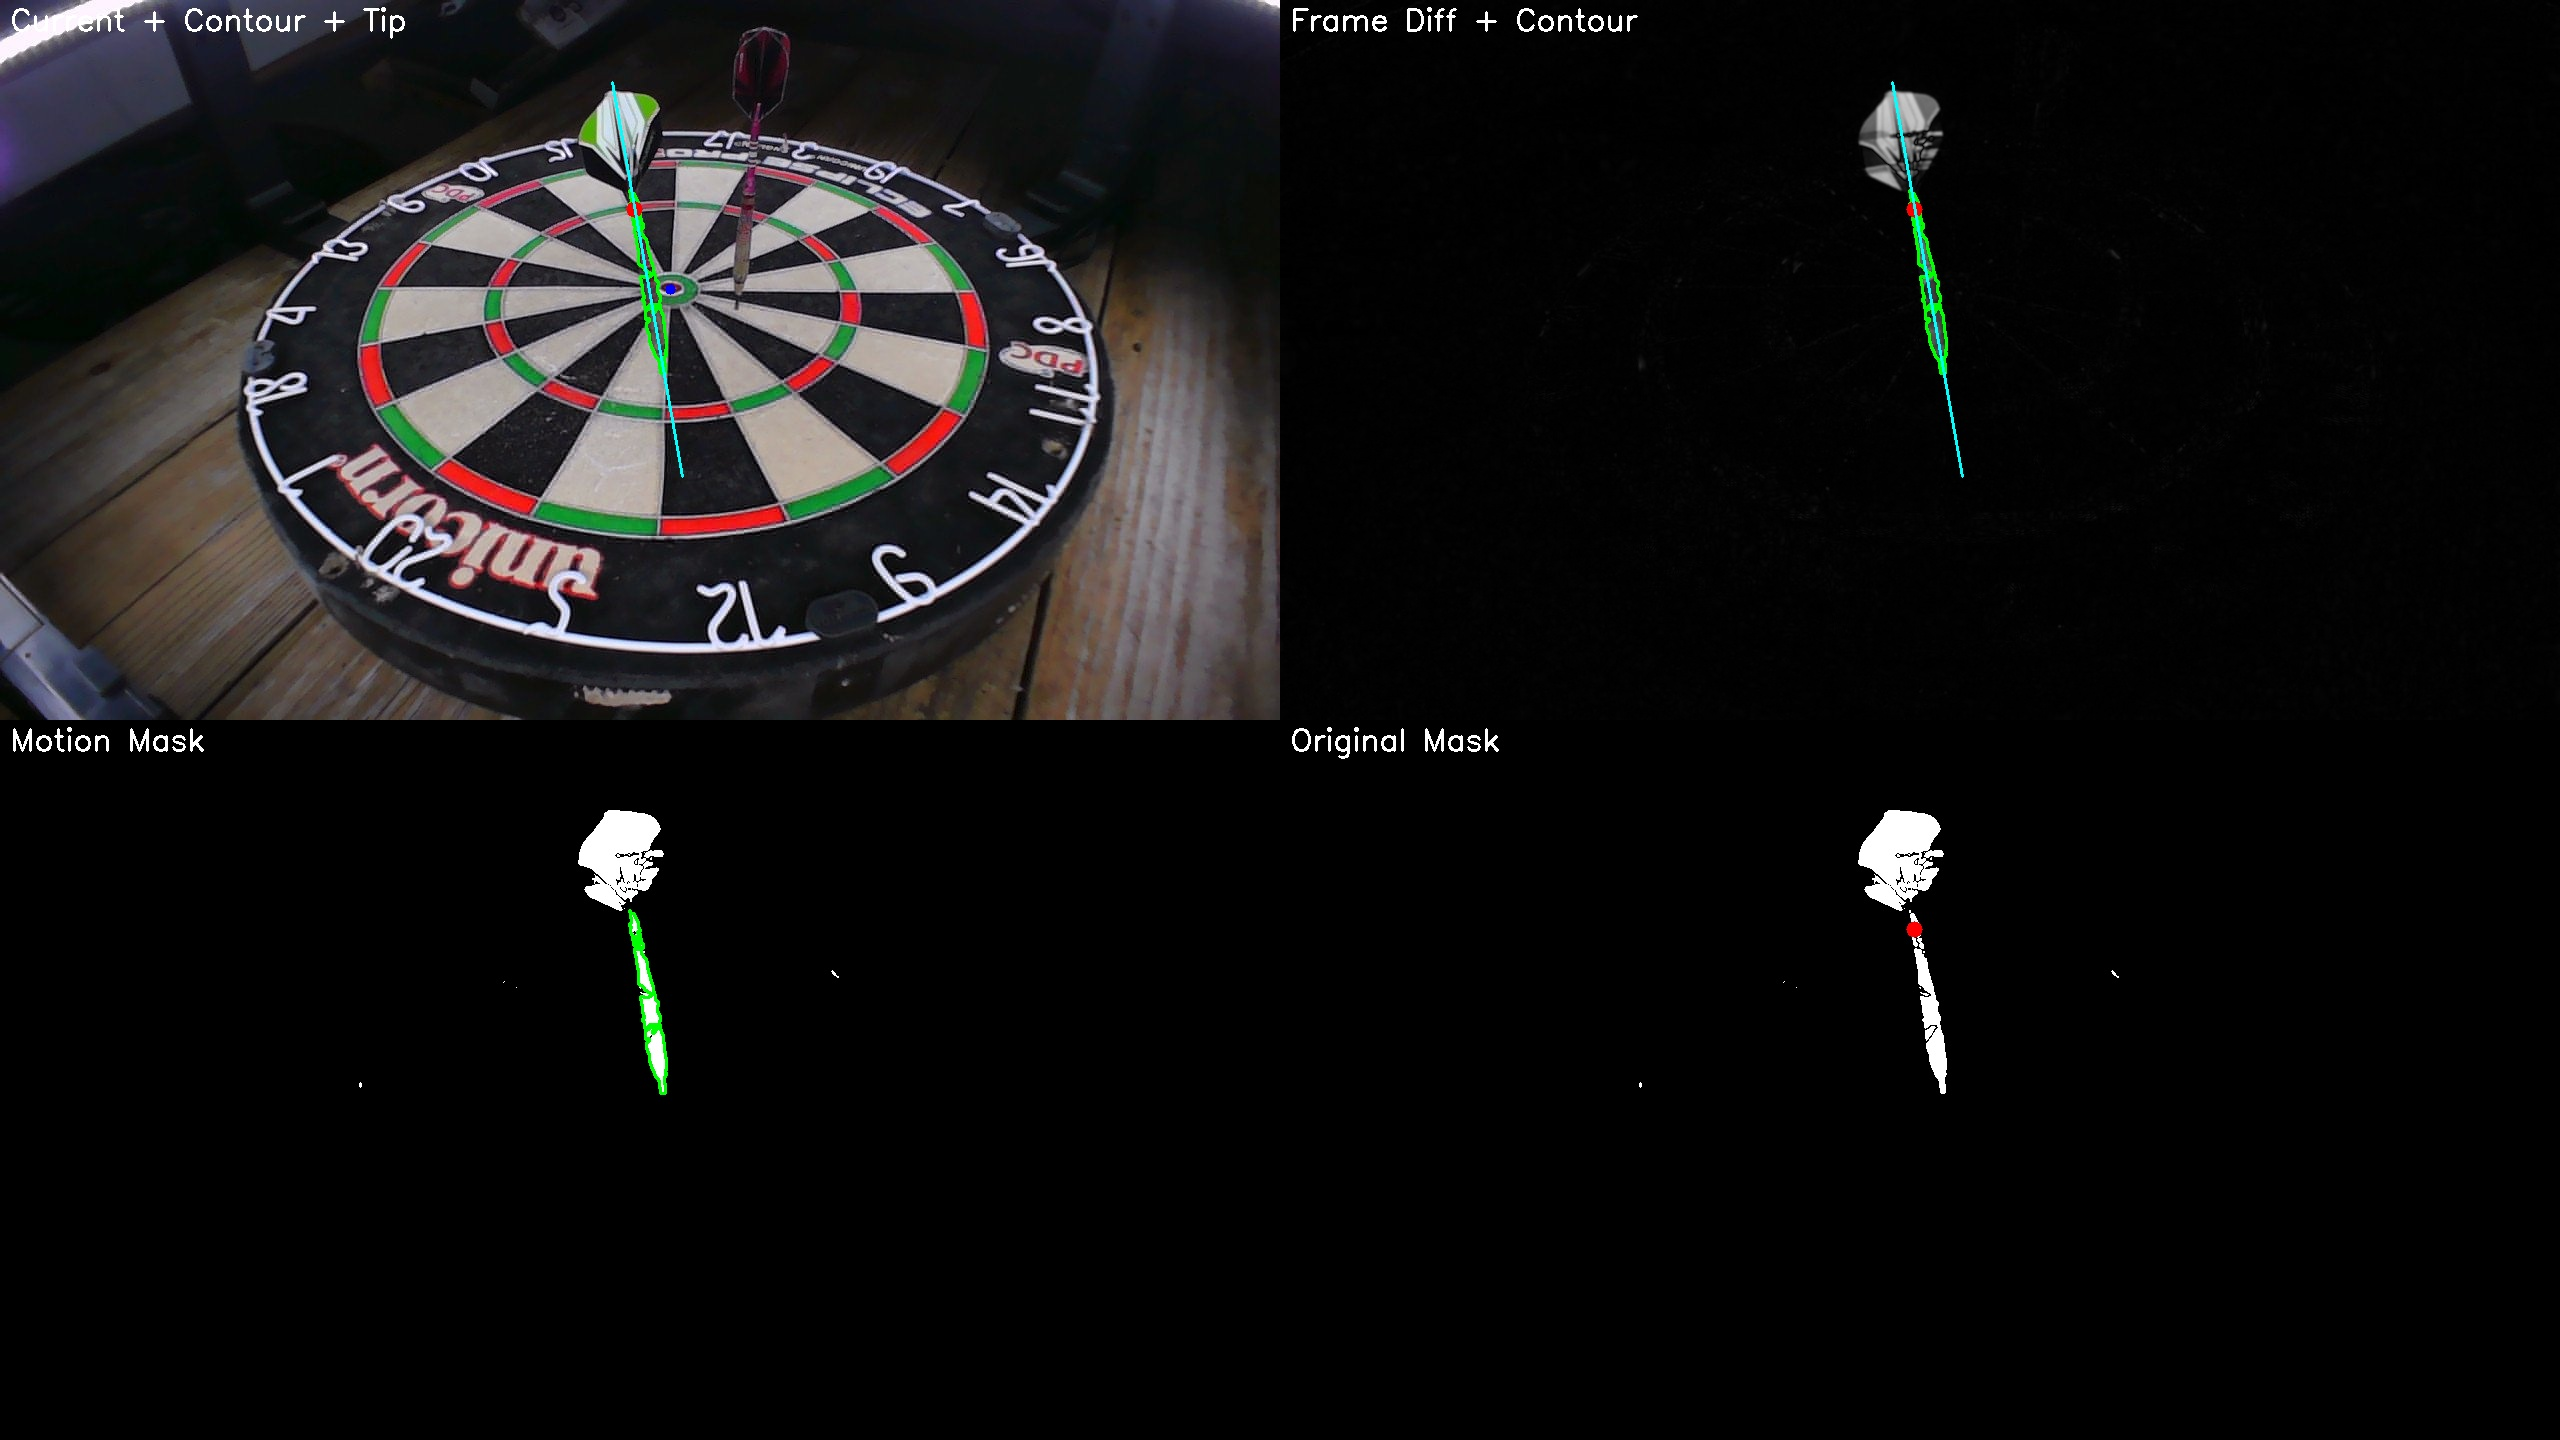
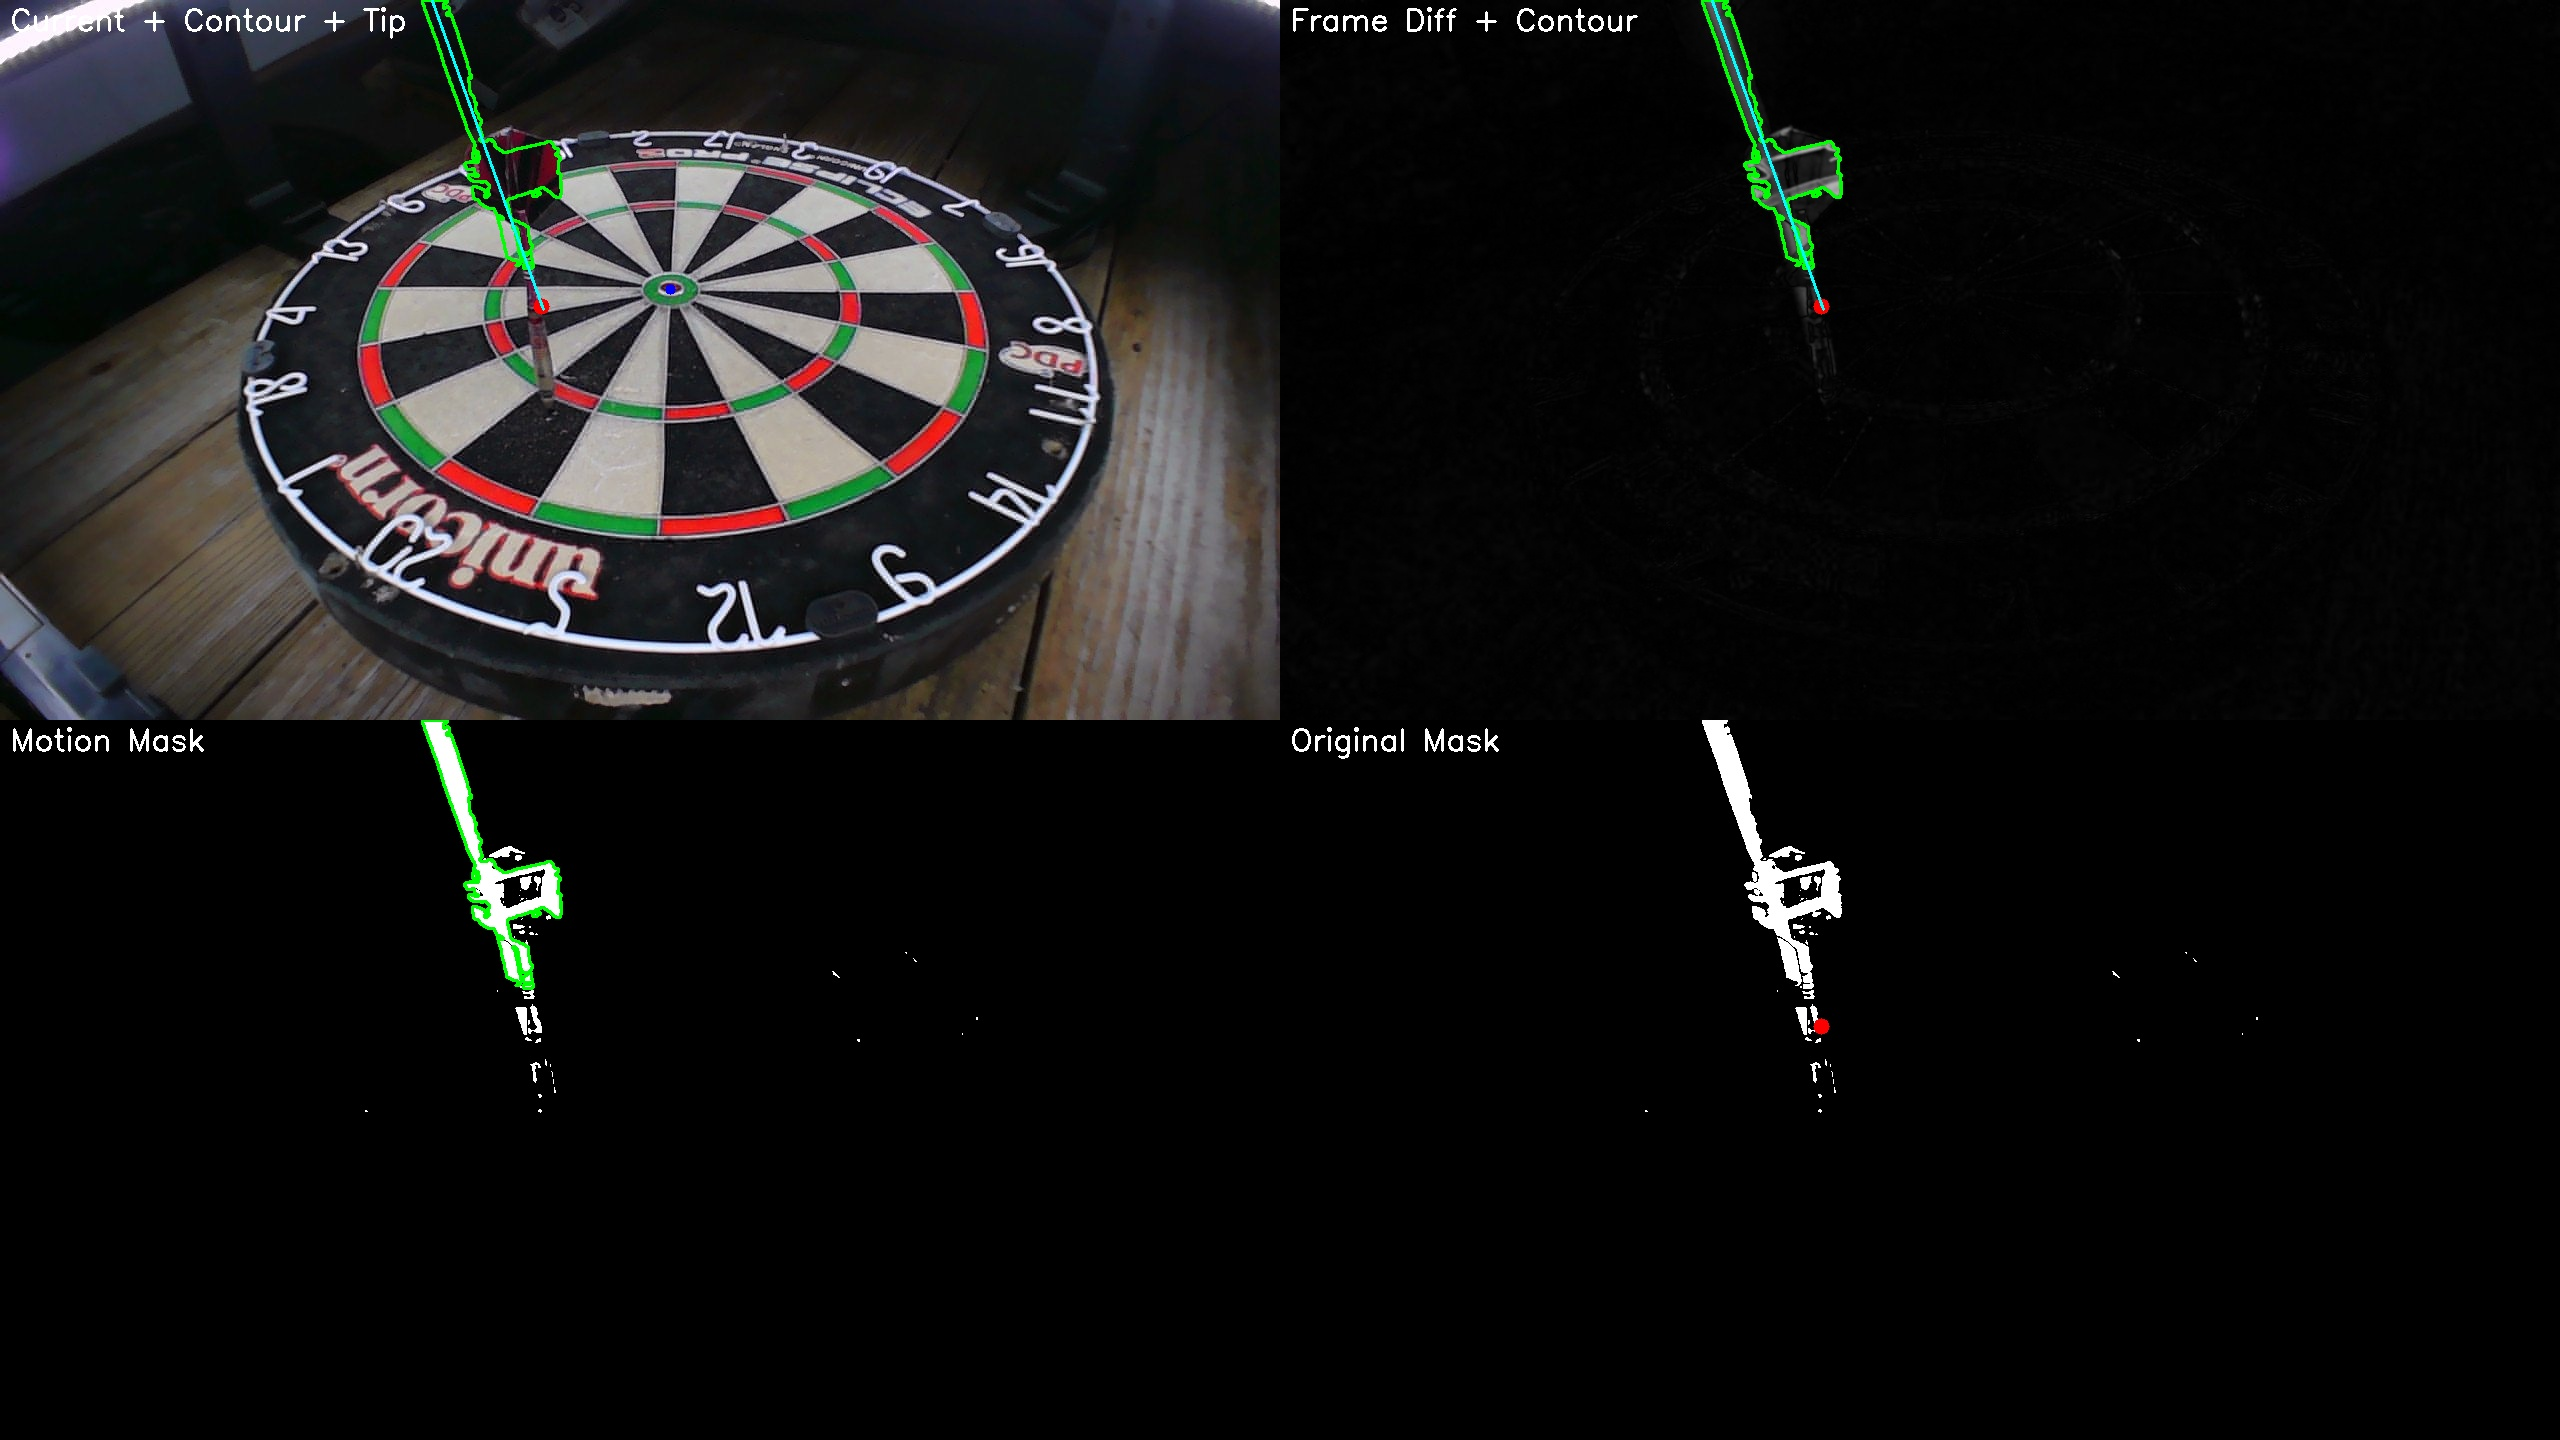
feat: use 20-point polygon for line intersection

diff --git a/app/core/skeleton_detection.py b/app/core/skeleton_detection.py
@@ -401,6 +401,122 @@ def project_line_to_board(line_params, board_center, board_radius, start_point=N
 
 
 
+
+def line_segment_intersection(p1, p2, p3, p4):
+    """
+    Find intersection point of line segment p1-p2 with line segment p3-p4.
+    Returns (x, y, t) where t is parameter along p1-p2, or None if no intersection.
+    """
+    x1, y1 = p1
+    x2, y2 = p2
+    x3, y3 = p3
+    x4, y4 = p4
+    
+    denom = (x1 - x2) * (y3 - y4) - (y1 - y2) * (x3 - x4)
+    if abs(denom) < 1e-10:
+        return None  # Parallel lines
+    
+    t = ((x1 - x3) * (y3 - y4) - (y1 - y3) * (x3 - x4)) / denom
+    u = -((x1 - x2) * (y1 - y3) - (y1 - y2) * (x1 - x3)) / denom
+    
+    # Check if intersection is within both segments
+    if 0 <= u <= 1:  # Must be on the polygon edge
+        # t can be any value (we extend the dart line infinitely)
+        x = x1 + t * (x2 - x1)
+        y = y1 + t * (y2 - y1)
+        return (x, y, t)
+    
+    return None
+
+
+def project_line_to_polygon(line_params, polygon_points, board_center, start_point=None):
+    """
+    Project the dart centerline until it intersects the polygon boundary.
+    
+    Uses the 20-point calibration polygon (double_outers) for accurate
+    board edge detection that accounts for perspective and lens distortion.
+    
+    Args:
+        line_params: (vx, vy, x0, y0) from cv2.fitLine
+        polygon_points: List of 20 (x, y) points defining board boundary
+        board_center: (cx, cy) center of dartboard
+        start_point: Starting point to determine direction toward board
+    
+    Returns:
+        (tip_x, tip_y) where line intersects polygon, or None if no intersection
+    """
+    if line_params is None or not polygon_points or len(polygon_points) < 3:
+        return None
+    
+    vx, vy, x0, y0 = line_params
+    cx, cy = board_center
+    
+    # Normalize direction
+    length = np.sqrt(vx*vx + vy*vy)
+    if length < 0.001:
+        return None
+    vx, vy = vx/length, vy/length
+    
+    # Determine direction: walk TOWARD board center
+    if start_point is not None:
+        sx, sy = start_point
+    else:
+        sx, sy = x0, y0
+    
+    to_center = np.array([cx - sx, cy - sy])
+    dot = to_center[0] * vx + to_center[1] * vy
+    if dot < 0:
+        vx, vy = -vx, -vy  # Flip to point toward center
+    
+    # Create line segment from current position extending far in both directions
+    # We use a large extension to ensure we hit the polygon
+    extend = 1000
+    line_start = (x0 - extend * vx, y0 - extend * vy)
+    line_end = (x0 + extend * vx, y0 + extend * vy)
+    
+    # Find all intersections with polygon edges
+    intersections = []
+    n = len(polygon_points)
+    
+    for i in range(n):
+        p1 = polygon_points[i]
+        p2 = polygon_points[(i + 1) % n]
+        
+        result = line_segment_intersection(line_start, line_end, p1, p2)
+        if result:
+            ix, iy, t = result
+            # Calculate distance from start_point in the walking direction
+            if start_point:
+                dx = ix - sx
+                dy = iy - sy
+                # Project onto direction vector to get signed distance
+                dist = dx * vx + dy * vy
+            else:
+                dist = t
+            intersections.append((ix, iy, dist, i))
+    
+    if not intersections:
+        return None
+    
+    # We want the intersection that's in FRONT of us (positive distance)
+    # and closest to us (smallest positive distance)
+    forward_intersections = [(x, y, d, i) for x, y, d, i in intersections if d > -50]
+    
+    if not forward_intersections:
+        return None
+    
+    # Sort by distance, take closest
+    forward_intersections.sort(key=lambda x: x[2])
+    tip_x, tip_y, _, segment_idx = forward_intersections[0]
+    
+    # Debug log
+    with open(r"C:\Users\clawd\polygon_intersection.txt", "a") as f:
+        f.write(f"line=({x0:.0f},{y0:.0f})->({vx:.2f},{vy:.2f}) hit polygon at ({tip_x:.0f},{tip_y:.0f}) edge={segment_idx}\n")
+    
+    return (float(tip_x), float(tip_y))
+
+
+
 def find_tip_endpoint(endpoints, line_params, board_center=None, board_radius=None, dart_mask=None):
     """
     Find which skeleton endpoint is the tip end.
@@ -629,22 +745,30 @@ def detect_dart_skeleton(
         skeleton_tip = find_tip_endpoint(endpoints, line_params, board_center=center, board_radius=board_radius, dart_mask=dart_mask)
         
         # Project centerline to board surface (even if tip not visible)
-        if board_radius is not None:
+        # Try polygon first (most accurate), then circle, then mask
+        tip = None
+        if hasattr(detect_dart_skeleton, '_polygon_cache') and camera_id in detect_dart_skeleton._polygon_cache:
+            polygon = detect_dart_skeleton._polygon_cache[camera_id]
+            tip = project_line_to_polygon(line_params, polygon, center, start_point=skeleton_tip)
+        
+        if tip is None and board_radius is not None:
             tip = project_line_to_board(line_params, center, board_radius, start_point=skeleton_tip)
-            if tip is None:
-                # Fallback to mask-based projection
-                tip = project_to_tip(skeleton_tip, line_params, original_mask, max_extend=100, board_center=center)
-        else:
+        
+        if tip is None:
             tip = project_to_tip(skeleton_tip, line_params, original_mask, max_extend=100, board_center=center)
         result["tip"] = tip
         result["confidence"] = 0.8
         
     elif len(endpoints) == 1:
-        if board_radius is not None and line_params is not None:
+        tip = None
+        if hasattr(detect_dart_skeleton, '_polygon_cache') and camera_id in detect_dart_skeleton._polygon_cache:
+            polygon = detect_dart_skeleton._polygon_cache[camera_id]
+            tip = project_line_to_polygon(line_params, polygon, center, start_point=endpoints[0])
+        
+        if tip is None and board_radius is not None and line_params is not None:
             tip = project_line_to_board(line_params, center, board_radius, start_point=endpoints[0])
-            if tip is None:
-                tip = project_to_tip(endpoints[0], line_params, original_mask, max_extend=100, board_center=center)
-        else:
+        
+        if tip is None:
             tip = project_to_tip(endpoints[0], line_params, original_mask, max_extend=100, board_center=center)
         result["tip"] = tip
         result["confidence"] = 0.6

diff --git a/app/api/routes.py b/app/api/routes.py
@@ -1637,6 +1637,13 @@ async def detect_tips(
                         b = outer_ellipse[3] if len(outer_ellipse) > 3 else 200
                         board_radius = (a + b) / 2
                     
+                    # Cache polygon calibration for line-polygon intersection
+                    polygon = calibration_data.get('polygon', {}).get('double_outers', [])
+                    if polygon:
+                        if not hasattr(detect_dart_skeleton, '_polygon_cache'):
+                            detect_dart_skeleton._polygon_cache = {}
+                        detect_dart_skeleton._polygon_cache[cam.camera_id] = polygon
+                    
                     skel_result = detect_dart_skeleton(
                         current_img, 
                         prev_img, 
